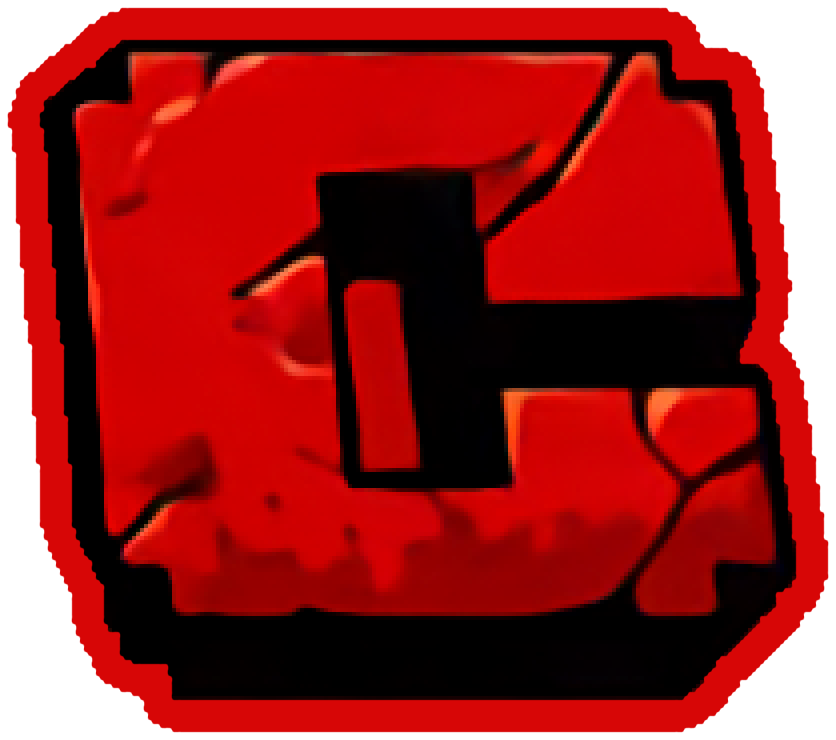
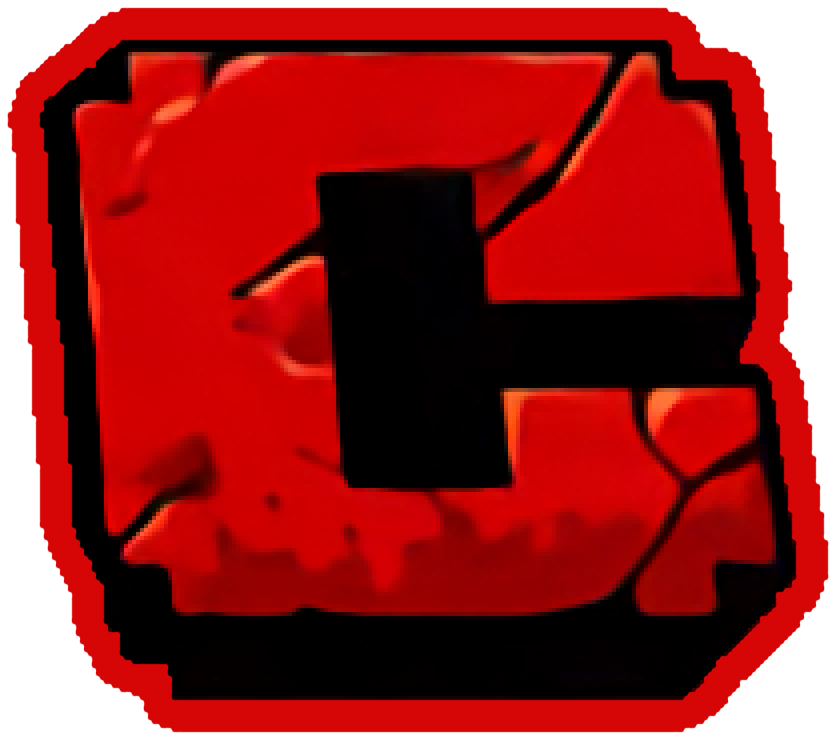
Repentance ISAAC: no filled red beside the I, no red inside the C
The red patch right of the I's stem is no longer part of the I (it keeps
its red glow there), and the red piece inside the C's mouth is painted
over in black, soft edge and all (band hole_colour). The other logos
regenerate unchanged.

Claude-Session: https://claude.ai/code/session_01LaEujuuQLDmiMkvddHrYGk

Changed region(s): [[0.4043, 0.373, 0.5287, 0.6527]]

diff --git a/tools/logo_letters.py b/tools/logo_letters.py
@@ -102,7 +102,8 @@ so Godot never imports the source), is JSON:
                   ink drawn past the outline (a spike); "colour": "plate"
                   takes the band from the nearest plate pixel ("plate_max": n
                   and "plate_gap": px keep light edge pixels out of it), "whole_letter"
-                  bands the face with its own outline and counters (Uma Musume);
+                  bands the face with its own outline and counters (Uma Musume),
+                  "hole_colour" paints another face showing in a hole;
                   "extrude": {"dx", "dy", "colour", "skip"} (in cut) gives a
                   block letter its 3D side by sweeping its face (Isaac);
                   "outline_max": n keeps only dark pixels past the face (not
@@ -664,6 +665,11 @@ def cut(cfg_path: Path, preview: Path | None = None) -> list[Path]:
                     rgb[clean] = band_cfg["face_colour"]
                 else:
                     rgb[clean] = A[clean][:, :3]
+                if "hole_colour" in band_cfg:
+                    # another face showing inside this letter's hole (Repentance's
+                    # C) is painted over in the hole's own colour
+                    other = nd.binary_dilation(clean & ~keep & fill, iterations=3) & clean & ~f
+                    rgb[other] = band_cfg["hole_colour"]  # with its soft edge
                 al[clean] = 1
                 ring = grown & ~clean
                 if band_cfg["colour"] == "plate":
